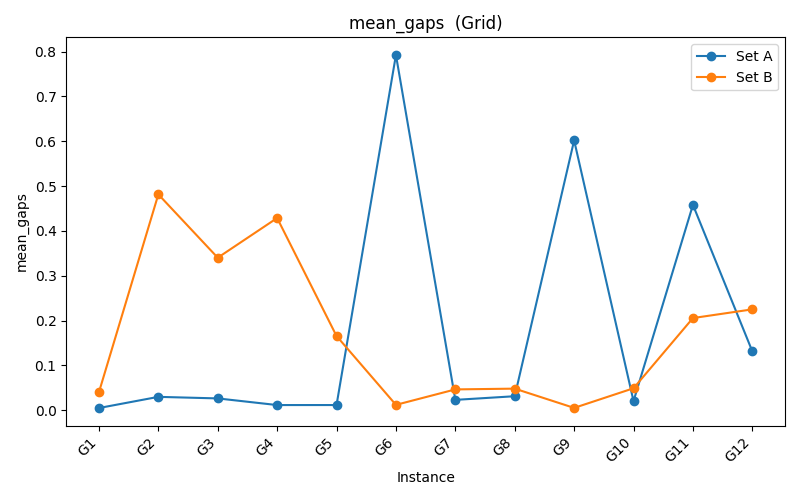
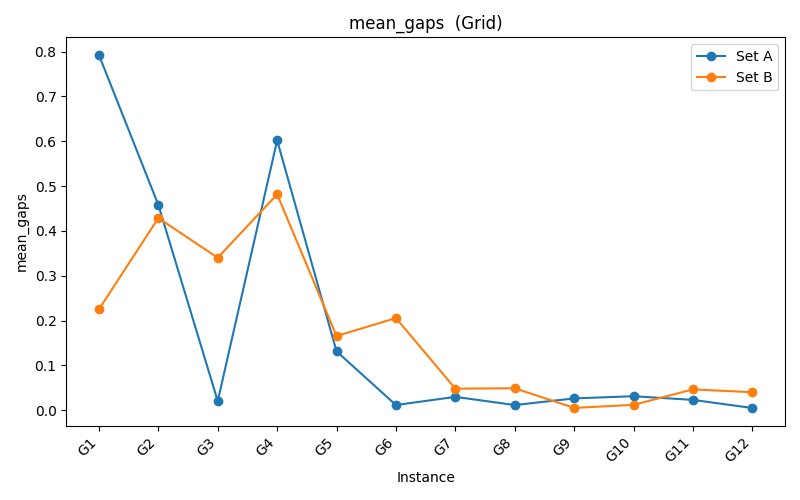
Added result images and minor modification

diff --git a/scalability.py b/scalability.py
@@ -32,19 +32,25 @@ def save_results(set_type, instance_type):
 def read_results(set_type, instance_type):
   results = 'results/SET_' + set_type + '/' + instance_type
   mean_computational_times_ccda = []
-  mean_computational_times = []
+  mean_computational_times_reduction_algorithm = []
+  mean_computational_times_formulation = []
+  mean_computational_total_times = []
   mean_gaps = []
   mean_removed_nodes_percentages = []
   mean_removed_arcs_percentages = []
+  mean_more_removed_arcs_percentages = []
 
-  for directory in os.listdir(results):
+  for directory in natsorted(os.listdir(results)):
     computational_times_ccda = []
+    computational_times_reduction_algorithm = []
+    computational_times_formulation = []
     computational_times = []
     gaps = []
     removed_nodes_percentages = []
     removed_arcs_percentages = []
+    more_removed_arcs_percentages = []
 
-    for file in os.listdir(os.path.join(results, directory)):
+    for file in natsorted(os.listdir(os.path.join(results, directory))):
       file_to_read = os.path.join(results, directory, file)
 
       with open(file_to_read, 'r') as f:
@@ -53,32 +59,46 @@ def read_results(set_type, instance_type):
 
       for line in lines:
 
-        if 'Time Colour Constrained Dijkstra Algorithm: ' in line:
+        if 'Time Colour Constrained Dijkstra Algorithm' in line:
           time_ccda = float(line.split(':')[1].strip())
           computational_times_ccda.append(time_ccda)
-        elif 'Total time: ' in line:
+        elif 'Time Reduction Algorithm' in line:
+          time_reduction_algorithm = float(line.split(':')[1].strip())
+          computational_times_reduction_algorithm.append(time_reduction_algorithm)
+        elif 'Time Formulation' in line:
+          time_formulation = float(line.split(':')[1].strip())
+          computational_times_formulation.append(time_formulation)
+        elif 'Total time' in line:
           total_time = float(line.split(':')[1].strip())
           computational_times.append(total_time)
-        elif 'Gap: ' in line:
+        elif 'Gap' in line:
           gap = float(line.split(':')[1].strip())
           gaps.append(gap)
-        elif 'Removed nodes percentage: ' in line:
+        elif 'Removed nodes percentage' in line:
           removed_nodes_percentage = float(line.split(':')[1].strip())
           if removed_nodes_percentage != -1:
             removed_nodes_percentages.append(removed_nodes_percentage)
-        elif 'Removed arcs percentage: ' in line:
+        elif 'Removed arcs percentage' in line and 'More' not in line:
           removed_arcs_percentage = float(line.split(':')[1].strip())
           if removed_arcs_percentage != -1:
             removed_arcs_percentages.append(removed_arcs_percentage)
+        elif 'More Removed arcs percentage' in line:
+          more_removed_arcs_percentage = float(line.split(':')[1].strip())
+          if more_removed_arcs_percentage != -1:
+            more_removed_arcs_percentages.append(more_removed_arcs_percentage)
 
 
     mean_computational_times_ccda.append(np.mean(computational_times_ccda))
-    mean_computational_times.append(np.mean(computational_times))
+    mean_computational_times_reduction_algorithm.append(np.mean(computational_times_reduction_algorithm))
+    mean_computational_times_formulation.append(np.mean(computational_times))
+    mean_computational_total_times.append(np.mean(computational_times))
     mean_gaps.append(np.mean(gaps))
     mean_removed_nodes_percentages.append(np.mean(removed_nodes_percentages))
     mean_removed_arcs_percentages.append(np.mean(removed_arcs_percentages))
+    mean_more_removed_arcs_percentages.append(np.mean(more_removed_arcs_percentages))
 
-  return mean_computational_times_ccda, mean_computational_times, mean_gaps, mean_removed_nodes_percentages, mean_removed_arcs_percentages
+  return (mean_computational_times_ccda, mean_computational_times_reduction_algorithm, mean_computational_times_formulation,
+          mean_computational_total_times, mean_gaps, mean_removed_nodes_percentages, mean_removed_arcs_percentages, mean_more_removed_arcs_percentages)
 
 
 
@@ -123,22 +143,29 @@ def save_image(list_A, list_B, instance_type, image_name):
 
 def main():
 
-  save_results('B', 'Grid') # DONE
+  # save_results('B', 'Grid') # DONE
   # save_results('B', 'Random') # TO FINISH
-  save_results('A', 'Grid') # DONE
+  # save_results('A', 'Grid') # DONE
   # save_results('A', 'Random') # DONE
 
-  mean_computational_times_ccda_A_Grid, mean_computational_times_A_Grid, mean_gaps_A_Grid, mean_removed_nodes_percentages_A_Grid, mean_removed_arcs_percentages_A_Grid = read_results('A', 'Grid')
-  mean_computational_times_ccda_B_Grid, mean_computational_times_B_Grid, mean_gaps_B_Grid, mean_removed_nodes_percentages_B_Grid, mean_removed_arcs_percentages_B_Grid = read_results('B', 'Grid')
+  (mean_computational_times_ccda_A_Grid, mean_computational_times_reduction_algorithm_A_Grid, mean_computational_times_formulation_A_Grid,
+   mean_computational_times_A_Grid, mean_gaps_A_Grid, mean_removed_nodes_percentages_A_Grid, mean_removed_arcs_percentages_A_Grid, mean_more_removed_arcs_percentages_A_Grid) = read_results('A', 'Grid')
+
+  (mean_computational_times_ccda_B_Grid, mean_computational_times_reduction_algorithm_B_Grid, mean_computational_times_formulation_B_Grid,
+   mean_computational_times_B_Grid, mean_gaps_B_Grid, mean_removed_nodes_percentages_B_Grid, mean_removed_arcs_percentages_B_Grid, mean_more_removed_arcs_percentages_B_Grid) = read_results('B', 'Grid')
   # mean_computational_times_ccda_A_Random, mean_computational_times_A_Random, mean_gaps_A_Random, mean_removed_nodes_percentages_A_Random, mean_removed_arcs_percentages_A_Random = read_results('A', 'Random')
   # mean_computational_times_ccda_B_Random, mean_computational_times_B_Random, mean_gaps_B_Random, mean_removed_nodes_percentages_B_Random, mean_removed_arcs_percentages_B_Random = read_results('B','Random')
 
 
   save_image(mean_computational_times_ccda_A_Grid, mean_computational_times_ccda_B_Grid, 'G', 'mean_computational_times_ccda')
-  save_image(mean_computational_times_A_Grid, mean_computational_times_B_Grid, 'G', 'mean_computational_times_')
+  save_image(mean_computational_times_reduction_algorithm_A_Grid, mean_computational_times_reduction_algorithm_B_Grid, 'G', 'mean_computational_times_reduction_algorithm')
+  save_image(mean_computational_times_formulation_A_Grid, mean_computational_times_formulation_B_Grid, 'G', 'mean_computational_times_formulation_reduced')
+  save_image(mean_computational_times_A_Grid, mean_computational_times_B_Grid, 'G', 'mean_computational_total_times_')
   save_image(mean_gaps_A_Grid, mean_gaps_B_Grid, 'G', 'mean_gaps')
   save_image(mean_removed_nodes_percentages_A_Grid, mean_removed_nodes_percentages_B_Grid, 'G', 'mean_removed_nodes_percentage')
   save_image(mean_removed_arcs_percentages_A_Grid, mean_removed_arcs_percentages_B_Grid, 'G', 'mean_removed_arcs_percentage')
+  save_image(mean_more_removed_arcs_percentages_A_Grid, mean_more_removed_arcs_percentages_B_Grid, 'G', 'mean_more_removed_arcs_percentage')
+
 
   # save_image(mean_computational_times_ccda_A_Random, mean_computational_times_ccda_B_Random, 'R', 'mean_computational_times_ccda')
   # save_image(mean_computational_times_A_Random, mean_computational_times_B_Random, 'R', 'mean_computational_times')
